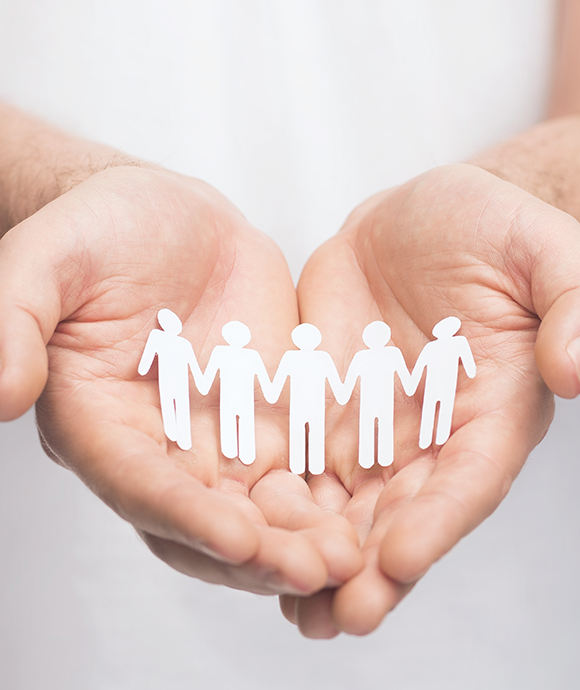
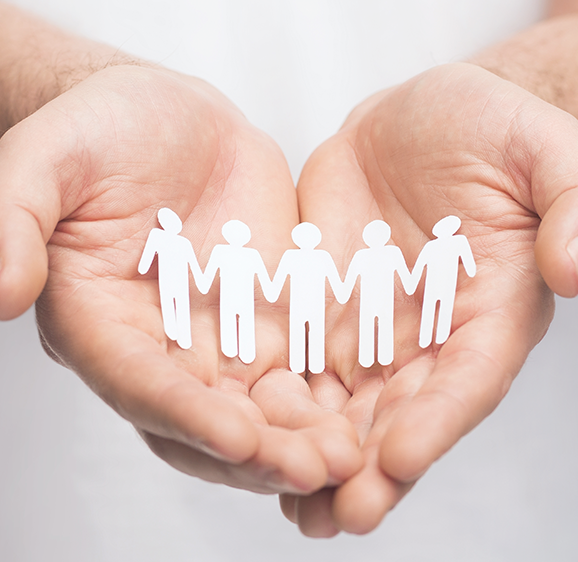
style: story 변경
- h1 타이틀 추가
- 내용, 이미지 변경
- margin, padding 변경

diff --git a/css/story.css b/css/story.css
@@ -5,14 +5,24 @@
     align-items: center;
 }
 
-#story .wrap {
+#story .wrap{
+    text-align: center;
+}
+#story .wrap > h1{
+    font-size: 45px;
+    font-weight: bold;
+    letter-spacing: -0.9px;
+    margin-bottom: 77px;
+}
+
+#story .wrap>div {
     display: flex;
 }
 
 .story__contents{
     display: flex;
     flex-direction: column;
-    justify-content: space-around;
+    justify-content: space-between;
     margin-left: 70px;
     flex: 1;
 }
@@ -21,15 +31,17 @@
     display: inline-block;
     margin-right: 13px;
     content: '';
-    width: 37px;
-    height: 37px;
+    width: 29px;
+    height: 29px;
+    vertical-align: middle;
     background-image: url("/ncube/images/story-icon.png");
 }
 
 .story__contents > h1{
-    font-size: 45px;
+    font-size: 26px;
     font-weight: bold;
-    letter-spacing: -0.9px;
+    letter-spacing: -0.52px;
+    text-align: left;
 }
 
 .story__contents > p{
@@ -41,6 +53,7 @@
 
 .circle-box{
     display: flex;
+    padding-bottom: 22px;
 }
 
 .circle{
@@ -71,7 +84,7 @@
 }
 
 .circle p{
-    margin-top: 25px;
+    margin-top: 20px;
     font-size: 14px;
     font-weight: 300;
     text-align: center;

diff --git a/html/story.php b/html/story.php
@@ -4,27 +4,30 @@ add_stylesheet("<link rel='stylesheet' href='" . $NC_PATH . "/css/story.css'>");
 
 <section id="story">
     <div class="wrap">
-        <div class="story__image">
-            <img src="/ncube/images/story-main.png" alt="story image">
-        </div>
-        <div class="story__contents">
-            <h1>STORY</h1>
-            <p>앤큐브 홀딩스는 산하 핵심계열사 및 제휴법인과의 융합을 통해 사람 ‘人’
-                공통체를 기반으로 실질적 Tokenomics 글로벌 생태계 기반 구축을
-                목표로 블록체인 기술 개발 및 공유경제 리더기업을 육성하고, 글로벌의
-                천만명의 건강한 앤큐브‘人’ 공동체 생태계 완성을 목표 달려갑니다.
-                <br/><br/>
-                앤큐브의 가치는 새로운 유통의 흐름과 중심을 사람 ‘人’으로 그 가치를
-                추구하며 사람으로 이루어진 새로운 공동체의 패러다임을 선도합니다.
-            </p>
-            <div class="circle-box">
-                <div class="circle">
-                    <span>The Frontier of 4th <br/> Industrial Revolution</span>
-                    <p>글로벌 유통혁신 커뮤니티 <br/> (공동체) </p>
-                </div>
-                <div class="circle">
-                    <span>nCube humunity <br/> Community</span>
-                    <p>앤큐브 人 공동체 <br/> (휴머니티)</p>
+        <h1>STORY</h1>
+        <div>
+            <div class="story__image">
+                <img src="/ncube/images/story-main.png" alt="story image">
+            </div>
+            <div class="story__contents">
+                <h1>nCube Committee</h1>
+                <p>앤큐브 홀딩스는 산하 핵심계열사 및 제휴법인과의 융합을 통해 사람 ‘人’
+                    공통체를 기반으로 실질적 Tokenomics 글로벌 생태계 기반 구축을
+                    목표로 블록체인 기술 개발 및 공유경제 리더기업을 육성하고, 글로벌의
+                    천만명의 건강한 앤큐브‘人’ 공동체 생태계 완성을 목표 달려갑니다.
+                    <br/><br/>
+                    앤큐브의 가치는 새로운 유통의 흐름과 중심을 사람 ‘人’으로 그 가치를
+                    추구하며 사람으로 이루어진 새로운 공동체의 패러다임을 선도합니다.
+                </p>
+                <div class="circle-box">
+                    <div class="circle">
+                        <span>The Frontier of 4th <br/> Industrial Revolution</span>
+                        <p>글로벌 유통혁신 커뮤니티 <br/> (공동체) </p>
+                    </div>
+                    <div class="circle">
+                        <span>nCube humunity <br/> Community</span>
+                        <p>앤큐브 人 공동체 <br/> (휴머니티)</p>
+                    </div>
                 </div>
             </div>
         </div>
